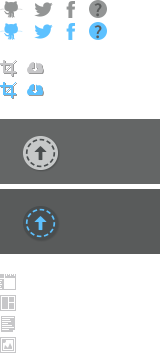
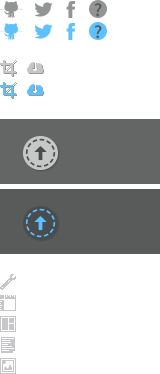
Updated spritesheet, updated styles

diff --git a/css/styles.css b/css/styles.css
@@ -525,7 +525,8 @@ body {
 		width: 16px;
 		height: 16px;
 		float: left;
-		margin-top: 9px;
+		margin-top: 7px;
+		margin-left: 9px;
 		margin-right: 9px;}
 
 	#autoCropIcon{
@@ -534,6 +535,7 @@ body {
 		background-position: 0px -59px;
 		width: 18px;
 		height: 18px;
+		margin-left: 100px;
 		float: left;}
 	#autoCropIcon:hover{
 		background-position: 0px -81px;}
@@ -550,7 +552,7 @@ body {
 	#iconFormatScreens{
 		display: block;
 		background-image: url("../img/cropcropIcons.png");
-		background-position: 0px -274px;
+		background-position: 0px -295px;
 		width: 16px;
 		height: 16px;
 		float: left;
@@ -559,7 +561,7 @@ body {
 	#iconCrops{
 		display: block;
 		background-image: url("../img/cropcropIcons.png");
-		background-position: 0px -295px;
+		background-position: 0px -316px;
 		width: 16px;
 		height: 16px;
 		float: left;
@@ -568,7 +570,7 @@ body {
 	#iconText{
 		display: block;
 		background-image: url("../img/cropcropIcons.png");
-		background-position: 0px -315px;
+		background-position: 0px -337px;
 		width: 16px;
 		height: 16px;
 		float: left;
